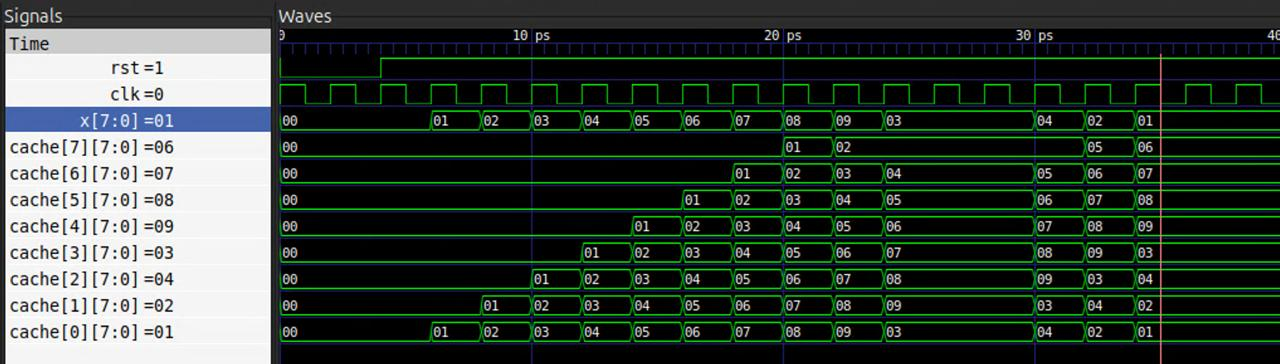
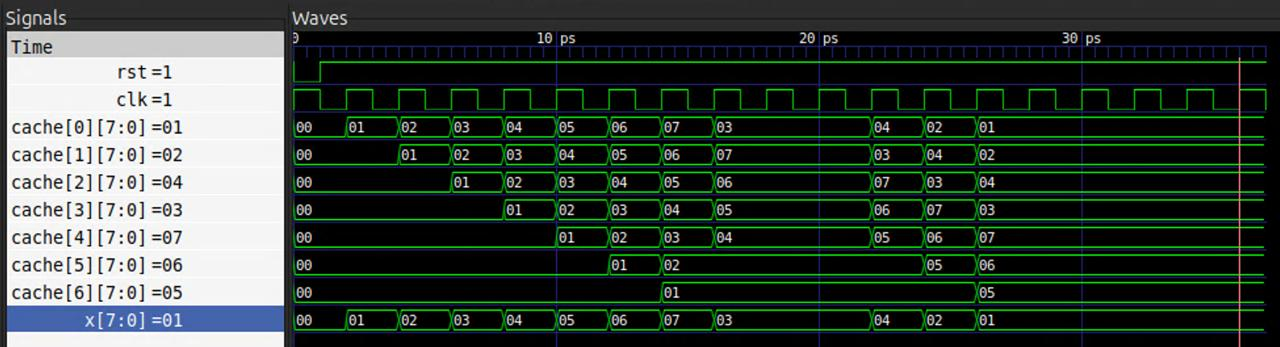
Migrated vcd creation on googletest in HW3

diff --git a/sem5/test_benches/main.cpp b/sem5/test_benches/main.cpp
@@ -19,11 +19,8 @@ constexpr uint8_t CACHE_SIZE = 7;
 
 using DataType = uint8_t;
 
-inline char to_char(int var) {
-    return static_cast<char>(var + '0');
-}
-
-std::array<DataType, CACHE_SIZE> run_one_iteration_of_cache(std::array<DataType, CACHE_SIZE> data, DataType new_value) {
+namespace {
+std::array<DataType, CACHE_SIZE> RunOneIterationOfCache(std::array<DataType, CACHE_SIZE> data, DataType new_value) {
     auto it = std::ranges::find(data, new_value);
     if(it != data.begin()) {
         it++;
@@ -36,12 +33,12 @@ std::array<DataType, CACHE_SIZE> run_one_iteration_of_cache(std::array<DataType,
     return data;
 }
 
-std::vector<std::array<DataType, CACHE_SIZE>> get_correct_sequence(const std::vector<DataType>& data) {
+std::vector<std::array<DataType, CACHE_SIZE>> GetCorrectSequence(const std::vector<DataType>& data) {
     std::vector<std::array<DataType, CACHE_SIZE>> res;
     std::array<DataType, CACHE_SIZE> current_state {};
 
     for(auto i : data) {
-        current_state = run_one_iteration_of_cache(current_state, i);
+        current_state = RunOneIterationOfCache(current_state, i);
         res.push_back(current_state);
     }
 
@@ -58,6 +55,7 @@ std::vector<DataType> GenerateRandomSequence(uint64_t seq_size) {
         res.push_back(dist(rng));
     }
     return res;
+}
 }
 
 void generate_vcd_example(const std::vector<uint8_t> data) {
@@ -105,23 +103,27 @@ class TestLRUCacheModule : public testing::Test {
         module_ = nullptr;
     };
 
-    std::vector<std::array<DataType, CACHE_SIZE>> RunModule(const std::vector<DataType>& data) {
+
+    std::vector<std::array<DataType, CACHE_SIZE>> RunModuleWithEvalCallback(
+            const std::vector<DataType>& data,
+            auto callback
+    ) {
         std::vector<std::array<DataType, CACHE_SIZE>> res;
         module_->rst = 0;
         module_->clk = 1;
-        module_->eval();
+        callback(module_);
 
         module_->clk = 0;
         module_->rst = 1;
-        module_->eval();
+        callback(module_);
 
         for(auto i : data) {
             module_->clk = 1;
             module_->x = i;
-            module_->eval();
+            callback(module_);
 
             module_->clk = 0;
-            module_->eval();
+            callback(module_);
 
             std::array<DataType, CACHE_SIZE> current {};
             std::ranges::copy(module_->cache, current.begin());
@@ -131,14 +133,20 @@ class TestLRUCacheModule : public testing::Test {
         return res;
     }
 
- private:
+    std::vector<std::array<DataType, CACHE_SIZE>> RunModule(const std::vector<DataType>& data) {
+        return RunModuleWithEvalCallback(data, [](auto& module){
+            module->eval();
+        });
+    }
+
+ protected:
     std::unique_ptr<Vmain> module_;
 
 };
 
 TEST_F(TestLRUCacheModule, TestWithOnes) {
     std::vector<DataType> input(1000, 1);
-    auto expected = get_correct_sequence(input);
+    auto expected = GetCorrectSequence(input);
     auto result = RunModule(input);
 
     ASSERT_EQ(expected, result);
@@ -146,7 +154,7 @@ TEST_F(TestLRUCacheModule, TestWithOnes) {
 
 TEST_F(TestLRUCacheModule, TestWithZeros) {
     std::vector<DataType> input(1000, 0);
-    auto expected = get_correct_sequence(input);
+    auto expected = GetCorrectSequence(input);
     auto result = RunModule(input);
 
     ASSERT_EQ(expected, result);
@@ -154,7 +162,7 @@ TEST_F(TestLRUCacheModule, TestWithZeros) {
 
 TEST_F(TestLRUCacheModule, MiniTest) {
     std::vector<DataType> input {1, 2, 3, 4, 4, 2, 3, 1, 1, 4, 20, 43, 1};
-    auto expected = get_correct_sequence(input);
+    auto expected = GetCorrectSequence(input);
     auto result = RunModule(input);
 
     ASSERT_EQ(expected, result);
@@ -163,16 +171,28 @@ TEST_F(TestLRUCacheModule, MiniTest) {
 TEST_F(TestLRUCacheModule, LargeTestWithRandomNumbers) {
     for(uint64_t i = 0; i < TEST_ITERATIONS; i++) {
         auto input = GenerateRandomSequence(i);
-        auto expected = get_correct_sequence(input);
+        auto expected = GetCorrectSequence(input);
         auto result = RunModule(input);
 
         ASSERT_EQ(expected, result);
     }
 }
 
-TEST(Visual, CreateMainVcdFile) {
+TEST_F(TestLRUCacheModule, CreateMainVcdFile) {
     std::vector<DataType> data = {
-        1, 2, 3, 4, 5, 6, 7, 3, 3, 3, 4, 2, 1
+        1, 2, 3, 4, 5, 6, 7, 3, 3, 3, 4, 2, 1, 1, 1, 1, 1, 1
     };
-    generate_vcd_example(data);
+
+
+    Verilated::traceEverOn(true);
+    auto tfp = std::make_unique<VerilatedVcdC>();
+    module_->trace(tfp.get(), 99);
+    tfp->open("main.vcd");
+
+    uint64_t simulation_step = 0;
+    RunModuleWithEvalCallback(data, [&simulation_step, &tfp](auto& module) {
+        module->eval();
+        tfp->dump(CLK_STEP_PS * simulation_step);
+        simulation_step++;
+    });
 }

diff --git a/README.md b/README.md
@@ -35,6 +35,11 @@ cd <task_path>
 make
 ```
 
+Для успешной сборки начиная с 5-го семинара нужен gtest. Подгрузить его можно слеюущей командой:
+```
+git submodule update --init
+```
+
 Для автоматической очистики можно использовать следующий скрипт:
 ```
 ./scripts/cleanup.sh
